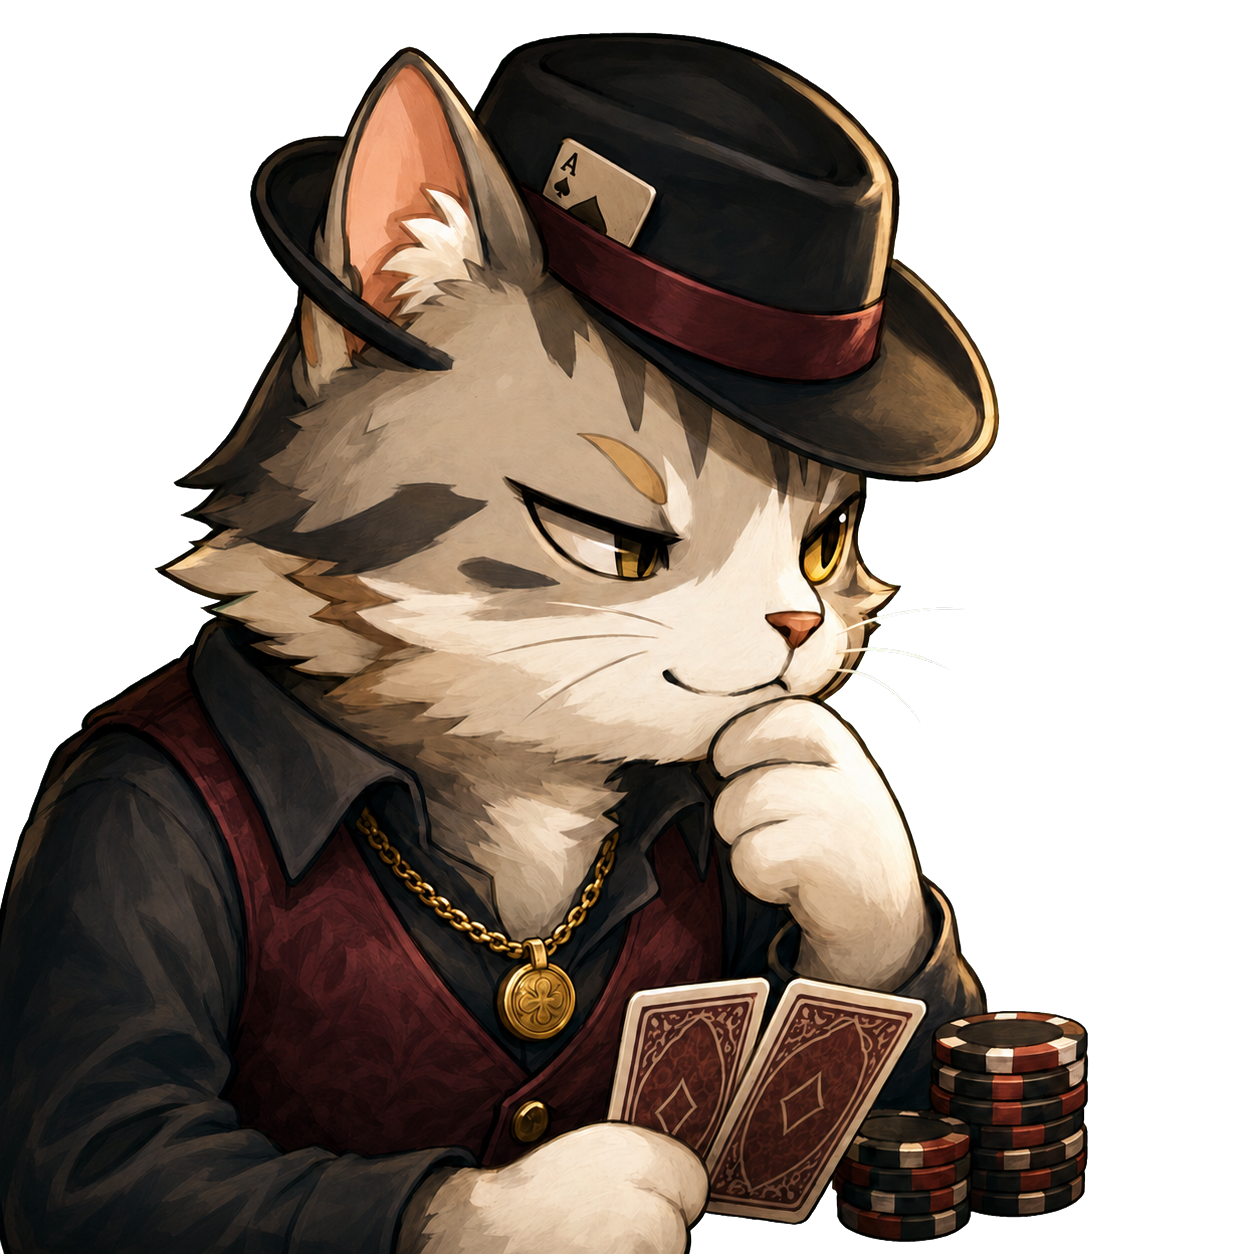
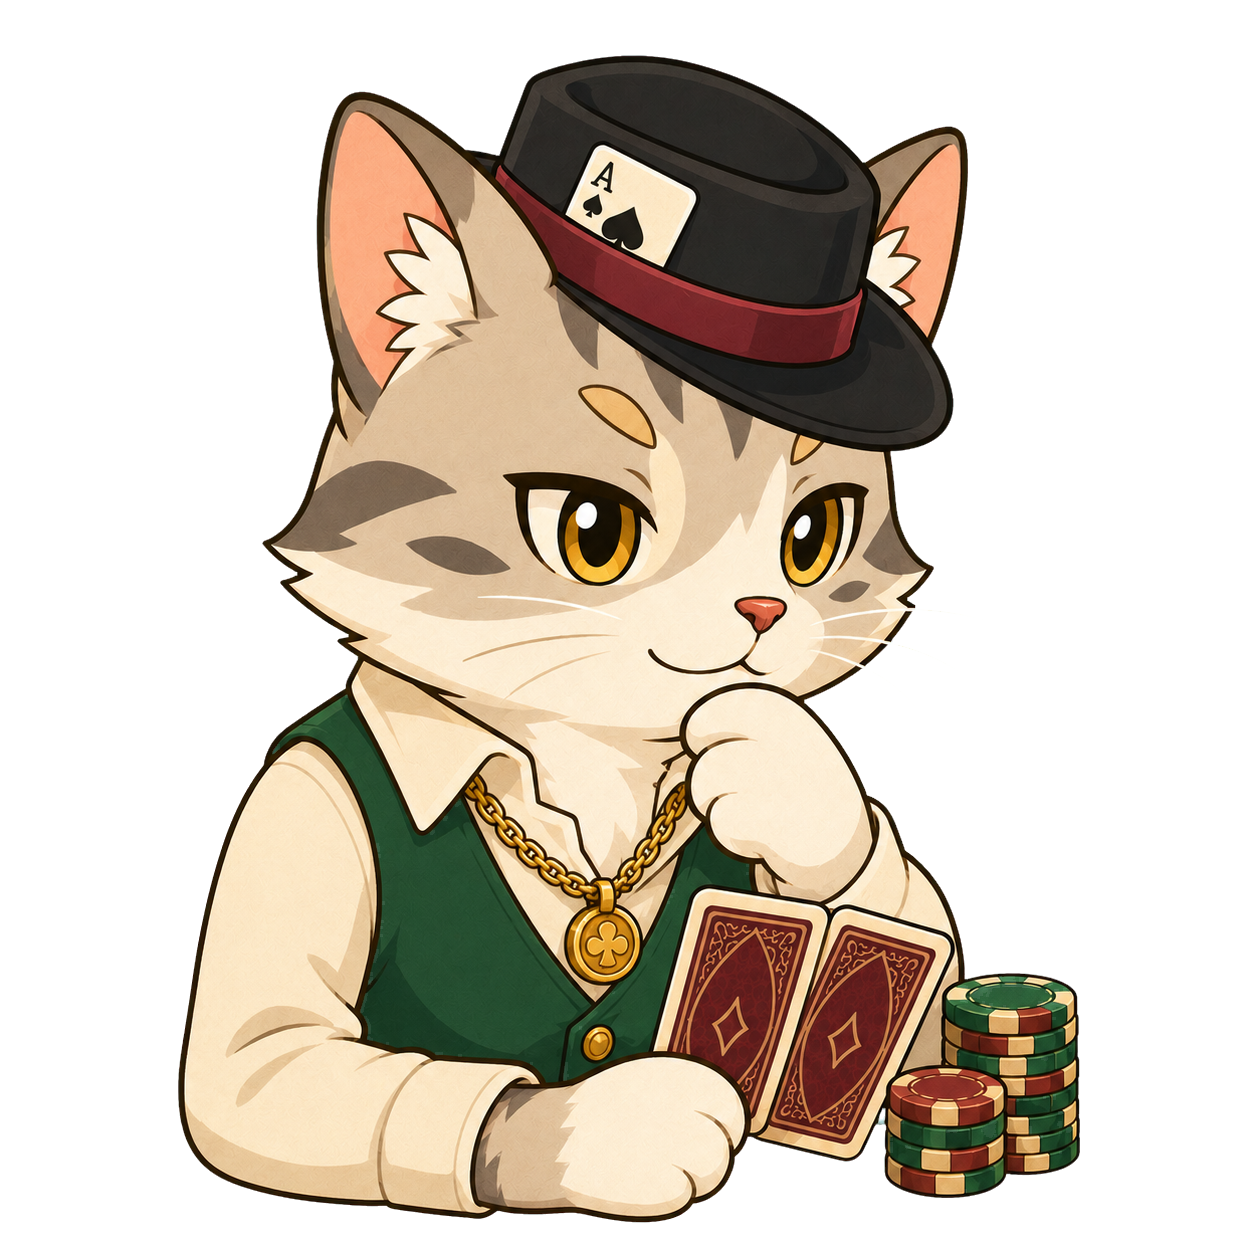
update: キャラクターアイコン画像を更新、トップページの配色をエメラルド調に調整

diff --git a/poker/index.html b/poker/index.html
@@ -3,7 +3,7 @@
 <head>
 <meta charset="UTF-8">
 <meta name="viewport" content="width=device-width, initial-scale=1.0">
-<meta name="theme-color" content="#060b09">
+<meta name="theme-color" content="#0d4b32">
 <title>ギャンブラーのための数学（ポーカー編）― POKER QUEST ―</title>
 <meta name="description" content="役の見分け方から実戦の駆け引き、世界大会への挑戦まで。ギャンブラーのための数学をテキサスホールデムで学べる無料ブラウザ学習ゲーム。ルール編・戦略編・総合チャレンジ・世界大会ガイドの4クエスト。">
 <style>
@@ -677,6 +677,143 @@
     html{scroll-behavior:auto}
     *,*::before,*::after{transition-duration:.01ms!important}
   }
+
+  /* Lesson palette: emerald felt + warm paper */
+  :root{
+    --black:#0b3d29;
+    --black-2:#0d4b32;
+    --felt:#0f6b3f;
+    --felt-2:#0a5335;
+    --ivory:#fffaf0;
+    --muted:#d6e6df;
+    --muted-2:#a9c4b8;
+    --gold:#d9a441;
+    --gold-light:#f3d99a;
+    --gold-line:rgba(166,116,42,.38);
+    --panel:#f6f1e2;
+  }
+
+  body{
+    color:var(--ivory);
+    background:
+      radial-gradient(950px 560px at 18% -4%,rgba(35,139,91,.58),transparent 66%),
+      radial-gradient(800px 540px at 92% 20%,rgba(217,164,65,.13),transparent 70%),
+      linear-gradient(145deg,#116b46,#0d4b32 48%,#052e1e);
+  }
+
+  body::before{
+    opacity:.3;
+    background-image:
+      linear-gradient(rgba(255,255,255,.025) 1px,transparent 1px),
+      linear-gradient(90deg,rgba(255,255,255,.02) 1px,transparent 1px);
+  }
+
+  .topbar{border-bottom-color:rgba(255,255,255,.18)}
+  .brand-mark::before,.brand-mark::after{
+    border-color:var(--gold-light);
+    background:#0b3d29;
+  }
+  .brand-copy small{color:#bed4ca}
+  .top-status{color:#dcebe5}
+  .top-status::before{
+    background:#f0ce72;
+    box-shadow:0 0 12px rgba(240,206,114,.75);
+  }
+
+  .eyebrow{color:var(--gold-light)}
+  .eyebrow::before{background:var(--gold-light)}
+  h1{color:#fffdf7;text-shadow:0 4px 20px rgba(2,27,17,.18)}
+  h1 .edition{color:var(--gold-light)}
+  .hero-lead{color:#e0eee8}
+  .meta-chip{
+    border-color:rgba(255,255,255,.24);
+    color:#f1f7f4;
+    background:rgba(255,255,255,.08);
+  }
+
+  .dealer-seal{
+    border-color:rgba(243,217,154,.62);
+    box-shadow:
+      0 0 0 18px rgba(243,217,154,.035),
+      0 0 0 19px rgba(243,217,154,.2),
+      0 36px 80px rgba(1,30,18,.32),
+      inset 0 0 60px rgba(2,48,29,.24);
+  }
+  .dealer-seal::before,.dealer-seal::after{background:rgba(243,217,154,.42)}
+  .seal-center strong,.seal-suit{color:var(--gold-light)}
+  .seal-center small{color:#d7e8e0}
+
+  .quest-board{
+    color:#24362e;
+    border-color:rgba(166,116,42,.5);
+    background:
+      radial-gradient(650px 360px at var(--mx,50%) var(--my,0%),rgba(17,107,70,.1),transparent 72%),
+      linear-gradient(145deg,#fffdf6,#f1ead8);
+    box-shadow:
+      0 42px 90px rgba(2,31,19,.3),
+      inset 0 1px rgba(255,255,255,.9);
+  }
+  .quest-board::before{border-color:rgba(166,116,42,.16)}
+  .board-head{border-bottom-color:rgba(36,54,46,.14)}
+  .section-kicker{color:#a6742a}
+  .board-head h2{color:#1d3229}
+  .board-head p{color:#6f7d75}
+
+  .quest-card{
+    color:#263a31;
+    border-color:#d9cfb7;
+    background:
+      linear-gradient(135deg,rgba(255,255,255,.95),rgba(246,241,226,.7)),
+      #fffdf6;
+    box-shadow:0 8px 22px rgba(42,55,48,.07);
+  }
+  .quest-card::before{color:rgba(25,54,41,.035)}
+  .quest-card:hover,
+  .quest-card:focus-visible,
+  .quest-card.active{
+    border-color:color-mix(in srgb,var(--accent) 58%,#d9cfb7);
+    background:#eef7f2;
+    box-shadow:0 16px 30px rgba(30,72,53,.13);
+  }
+  .quest-card:hover::before,
+  .quest-card:focus-visible::before,
+  .quest-card.active::before{
+    color:color-mix(in srgb,var(--accent) 10%,transparent);
+  }
+  .card-main small,.card-tag{color:#718078}
+  .card-main h3{color:#20372d}
+  .card-main p{color:#66756d}
+  .card-arrow{
+    border-color:rgba(35,59,48,.2);
+    color:#28483a;
+    background:rgba(255,255,255,.5);
+  }
+
+  .quest-detail{
+    border-color:#d8ccb0;
+    color:#253a31;
+    background:linear-gradient(135deg,#fffdf7,#f4edda);
+    box-shadow:inset 0 1px rgba(255,255,255,.9);
+  }
+  .detail-copy h3{color:#20372d}
+  .detail-copy p{color:#68776f}
+  .detail-cta{
+    border-color:#a6742a;
+    color:#fff;
+    background:linear-gradient(#d9a441,#a6742a);
+    box-shadow:0 3px 0 #81551d;
+  }
+  .detail-cta:hover{
+    color:#805718;
+    border-color:#a6742a;
+    background:transparent;
+    box-shadow:none;
+  }
+
+  footer{color:#c5d9d0}
+  .footer-suits{color:#d8e7e0}
+  .footer-suits span:nth-child(2),
+  .footer-suits span:nth-child(3){color:#e39a91}
 </style>
 </head>
 <body>
@@ -725,7 +862,7 @@
 
       <div class="quest-grid">
         <a class="quest-card active" href="rules/"
-           style="--accent:#d7b66d"
+           style="--accent:#a6742a"
            data-num="01" data-suit="♠" data-sub="READ THE TABLE"
            data-title="ルール編"
            data-desc="役の強さ、テキサスホールデムの進め方、メインポットとサイドポットの仕組みまで。3ステージでゲームの土台をつくる。">
@@ -745,7 +882,7 @@
         </a>
 
         <a class="quest-card" href="strategy/"
-           style="--accent:#b9cabe"
+           style="--accent:#2f8f65"
            data-num="02" data-suit="♣" data-sub="PLAY THE RANGE"
            data-title="戦略編"
            data-desc="ポジション、アウツとオッズ、レンジ思考、ブロッカー、ベットサイジングの数学。9ステージで実戦の判断力を鍛える。">
@@ -765,7 +902,7 @@
         </a>
 
         <a class="quest-card" href="challenge/"
-           style="--accent:#a9554f"
+           style="--accent:#b55049"
            data-num="03" data-suit="♥" data-sub="TAKE THE SEAT"
            data-title="総合チャレンジ"
            data-desc="CPU4人との円卓で持ちチップを賭けて実戦。チェック、ベット、コール、レイズ、フォールドの駆け引きを試す最終試練。">
@@ -785,7 +922,7 @@
         </a>
 
         <a class="quest-card" href="https://gamblers-mathematics.habatakijuku.com/poker/worldchamp-guide/"
-           style="--accent:#e7cf91"
+           style="--accent:#7b63a8"
            data-num="04" data-suit="♦" data-sub="GO GLOBAL"
            data-title="世界大会ガイド"
            data-desc="WSOPをはじめとする世界大会のエントリー方法、大会形式、賞金の仕組みまで。実際に世界へ挑戦するための完全ガイド。">
